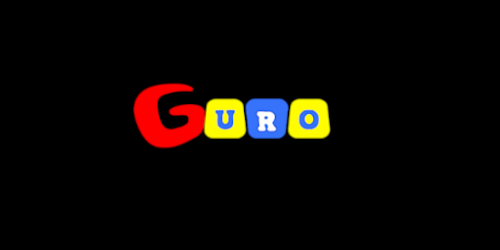
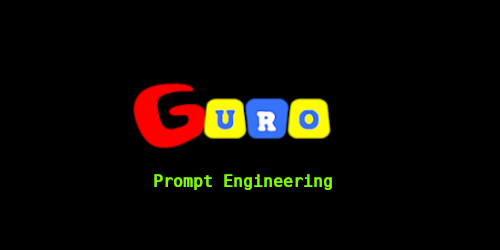
update

Changed region(s): [[0.3, 0.7, 0.69, 0.756]]

diff --git a/templates/index.html b/templates/index.html
@@ -877,7 +877,7 @@
 	    <div class="card project-box shadow position-relative h-100">
 	      <div class="project-img img-box">
 	        <!-- Add relevant image from /static/images/ here -->
-	        <img src="{{ url_for('static', filename='images/boo_llm.png') }}"
+	        <img src="{{ url_for('static', filename='images/boo_ai.png') }}"
 	             alt="Boo"
 	             class="card-img-top"/>
 	        <div class="project-overlay d-flex flex-column justify-content-center align-items-center">